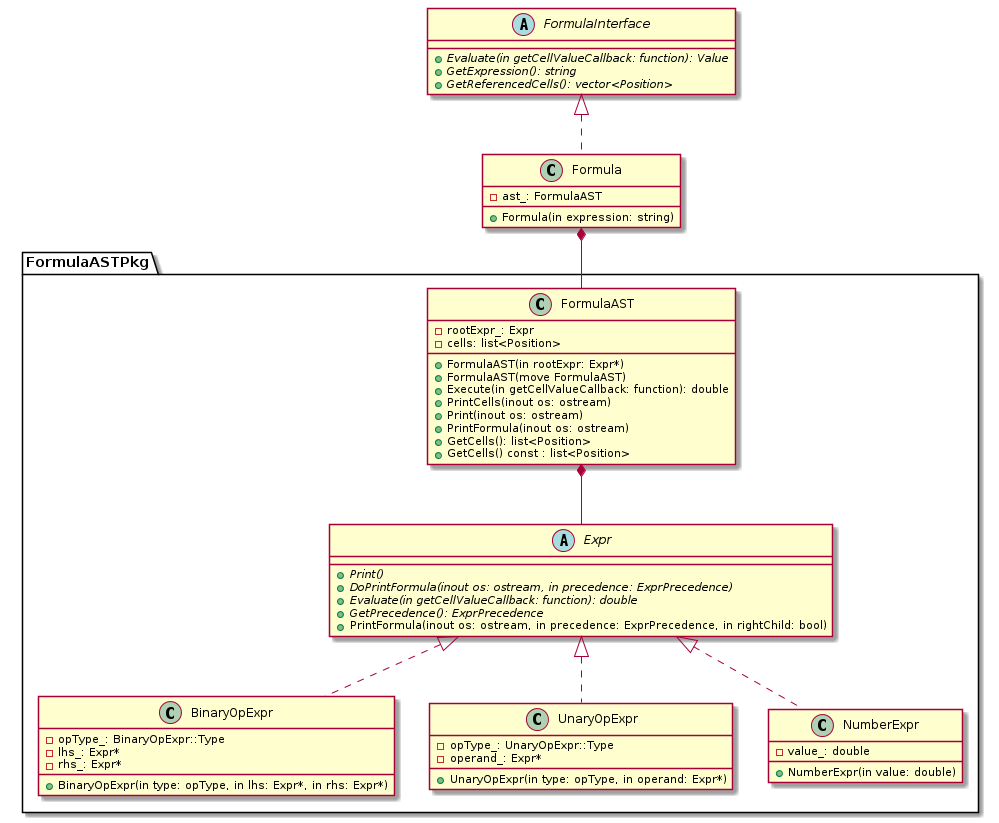
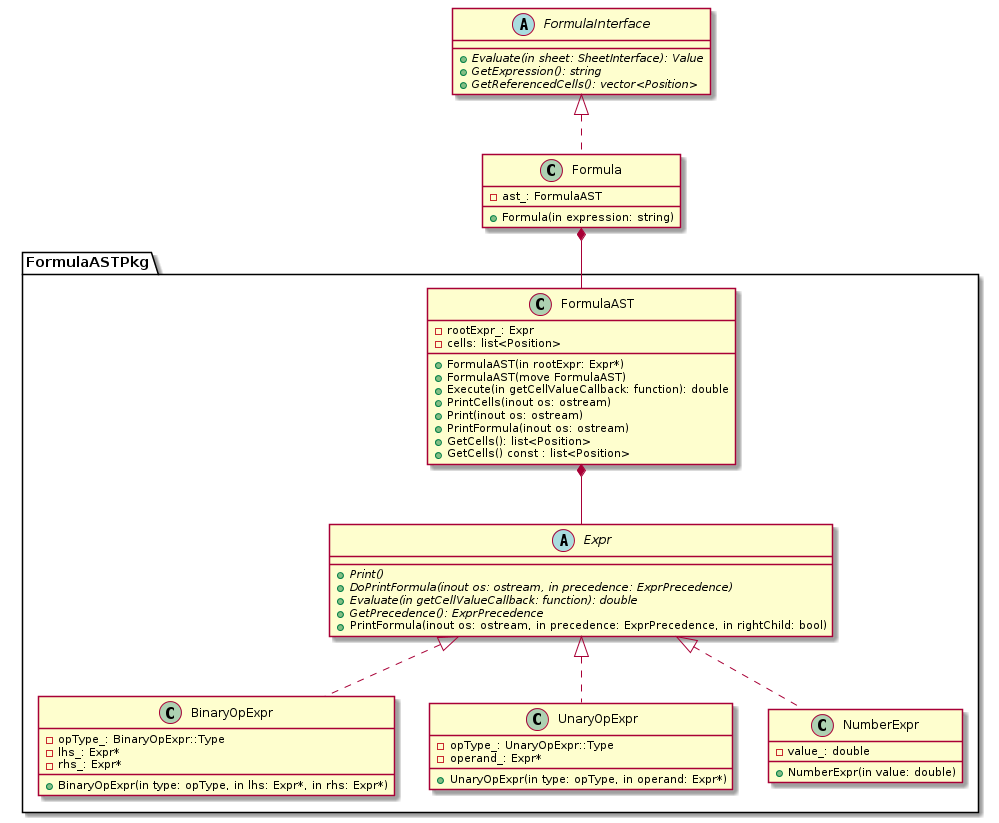
Get headers from task

Changed region(s): [[0.4034, 0.0, 0.7447, 0.1215]]

diff --git a/headers/common.h b/headers/common.h
@@ -34,19 +34,27 @@ struct Size {
 };
 
 // Описывает ошибки, которые могут возникнуть при вычислении формулы.
-class FormulaError : public std::runtime_error {
+class FormulaError {
  public:
-  using std::runtime_error::runtime_error;
+  enum class Category {
+    Ref,  // ссылка на ячейку с некорректной позицией
+    Value,  // ячейка не может быть трактована как число
+    Div0,  // в результате вычисления возникло деление на ноль
+  };
+
+  FormulaError(Category category);
+
+  Category GetCategory() const;
+
+  bool operator==(FormulaError rhs) const;
+
+  std::string_view ToString() const;
+
+ private:
+  Category category_;
 };
 
 std::ostream& operator<<(std::ostream& output, FormulaError fe);
-
-// Исключение, выбрасываемое при попытке задать синтаксически некорректную
-// формулу
-class FormulaException : public std::runtime_error {
- public:
-  using std::runtime_error::runtime_error;
-};
 
 // Исключение, выбрасываемое при попытке передать в метод некорректную позицию
 class InvalidPositionException : public std::out_of_range {
@@ -54,9 +62,9 @@ class InvalidPositionException : public std::out_of_range {
   using std::out_of_range::out_of_range;
 };
 
-// Исключение, выбрасываемое, если вставка строк/столбцов в таблицу приведёт к
-// ячейке с позицией больше максимально допустимой
-class TableTooBigException : public std::runtime_error {
+// Исключение, выбрасываемое при попытке задать синтаксически некорректную
+// формулу
+class FormulaException : public std::runtime_error {
  public:
   using std::runtime_error::runtime_error;
 };
@@ -68,9 +76,6 @@ class CircularDependencyException : public std::runtime_error {
   using std::runtime_error::runtime_error;
 };
 
-inline constexpr char FORMULA_SIGN = '=';
-inline constexpr char ESCAPE_SIGN = '\'';
-
 class CellInterface {
  public:
   // Либо текст ячейки, либо значение формулы, либо сообщение об ошибке из
@@ -78,15 +83,6 @@ class CellInterface {
   using Value = std::variant<std::string, double, FormulaError>;
 
   virtual ~CellInterface() = default;
-
-  // Задаёт содержимое ячейки. Если текст начинается со знака "=", то он
-  // интерпретируется как формула. Уточнения по записи формулы:
-  // * Если текст содержит только символ "=" и больше ничего, то он не считается
-  // формулой
-  // * Если текст начинается с символа "'" (апостроф), то при выводе значения
-  // ячейки методом GetValue() он опускается. Можно использовать, если нужно
-  // начать текст со знака "=", но чтобы он не интерпретировался как формула.
-  virtual void Set(std::string text) = 0;
 
   // Возвращает видимое значение ячейки.
   // В случае текстовой ячейки это её текст (без экранирующих символов). В
@@ -103,12 +99,24 @@ class CellInterface {
   virtual std::vector<Position> GetReferencedCells() const = 0;
 };
 
+inline constexpr char FORMULA_SIGN = '=';
+inline constexpr char ESCAPE_SIGN = '\'';
+
 // Интерфейс таблицы
 class SheetInterface {
  public:
   virtual ~SheetInterface() = default;
 
-  // Задаёт содержимое ячейки.
+  // Задаёт содержимое ячейки. Если текст начинается со знака "=", то он
+  // интерпретируется как формула. Если задаётся синтаксически некорректная
+  // формула, то бросается исключение FormulaException и значение ячейки не
+  // изменяется. Если задаётся формула, которая приводит к циклической
+  // зависимости (в частности, если формула использует текущую ячейку), то
+  // бросается исключение CircularDependencyException и значение ячейки не
+  // изменяется.
+  // Уточнения по записи формулы:
+  // * Если текст содержит только символ "=" и больше ничего, то он не считается
+  // формулой
   // * Если текст начинается с символа "'" (апостроф), то при выводе значения
   // ячейки методом GetValue() он опускается. Можно использовать, если нужно
   // начать текст со знака "=", но чтобы он не интерпретировался как формула.

diff --git a/headers/formula.h b/headers/formula.h
@@ -2,25 +2,38 @@
 
 #include <memory>
 #include <variant>
+#include <vector>
 #include "FormulaAST.h"
 #include "common.h"
 
 // Формула, позволяющая вычислять и обновлять арифметическое выражение.
 // Поддерживаемые возможности:
 // * Простые бинарные операции и числа, скобки: 1+2*3, 2.5*(2+3.5/7)
+// * Значения ячеек в качестве переменных: A1+B2*C3
+// Ячейки, указанные в формуле, могут быть как формулами, так и текстом. Если
+// это текст, но он представляет число, тогда его нужно трактовать как число.
+// Пустая ячейка или ячейка с пустым текстом трактуется как число ноль.
 class FormulaInterface {
  public:
   using Value = std::variant<double, FormulaError>;
 
   virtual ~FormulaInterface() = default;
 
-  // Возвращает вычисленное значение формулы либо ошибку
+  // Обратите внимание, что в метод Evaluate() ссылка на таблицу передаётся
+  // в качестве аргумента.
+  // Возвращает вычисленное значение формулы для переданного листа либо ошибку.
+  // Если вычисление какой-то из указанных в формуле ячеек приводит к ошибке, то
+  // возвращается именно эта ошибка. Если таких ошибок несколько, возвращается
+  // любая.
   virtual Value Evaluate(const SheetInterface& sheet) const = 0;
 
   // Возвращает выражение, которое описывает формулу.
   // Не содержит пробелов и лишних скобок.
   virtual std::string GetExpression() const = 0;
 
+  // Возвращает список ячеек, которые непосредственно задействованы в вычислении
+  // формулы. Список отсортирован по возрастанию и не содержит повторяющихся
+  // ячеек.
   virtual std::vector<Position> GetReferencedCells() const = 0;
 };
 

diff --git a/headers/cell.h b/headers/cell.h
@@ -1,13 +1,16 @@
 #pragma once
 
+#include <functional>
 #include <optional>
 #include <unordered_set>
 #include "common.h"
 #include "formula.h"
 
+class Sheet;
+
 class Cell : public CellInterface {
  public:
-  Cell();
+  Cell(Sheet& sheet);
   ~Cell();
 
   void Set(std::string text) override;
@@ -28,12 +31,12 @@ class Cell : public CellInterface {
   void InvalidateCache() const;
 
  private:
-  //можете воспользоваться нашей подсказкой, но это необязательно.
   class Impl;
   class EmptyImpl;
   class TextImpl;
   class FormulaImpl;
 
+  Sheet& sheet;
   std::unique_ptr<Impl> impl_;
 };
 
